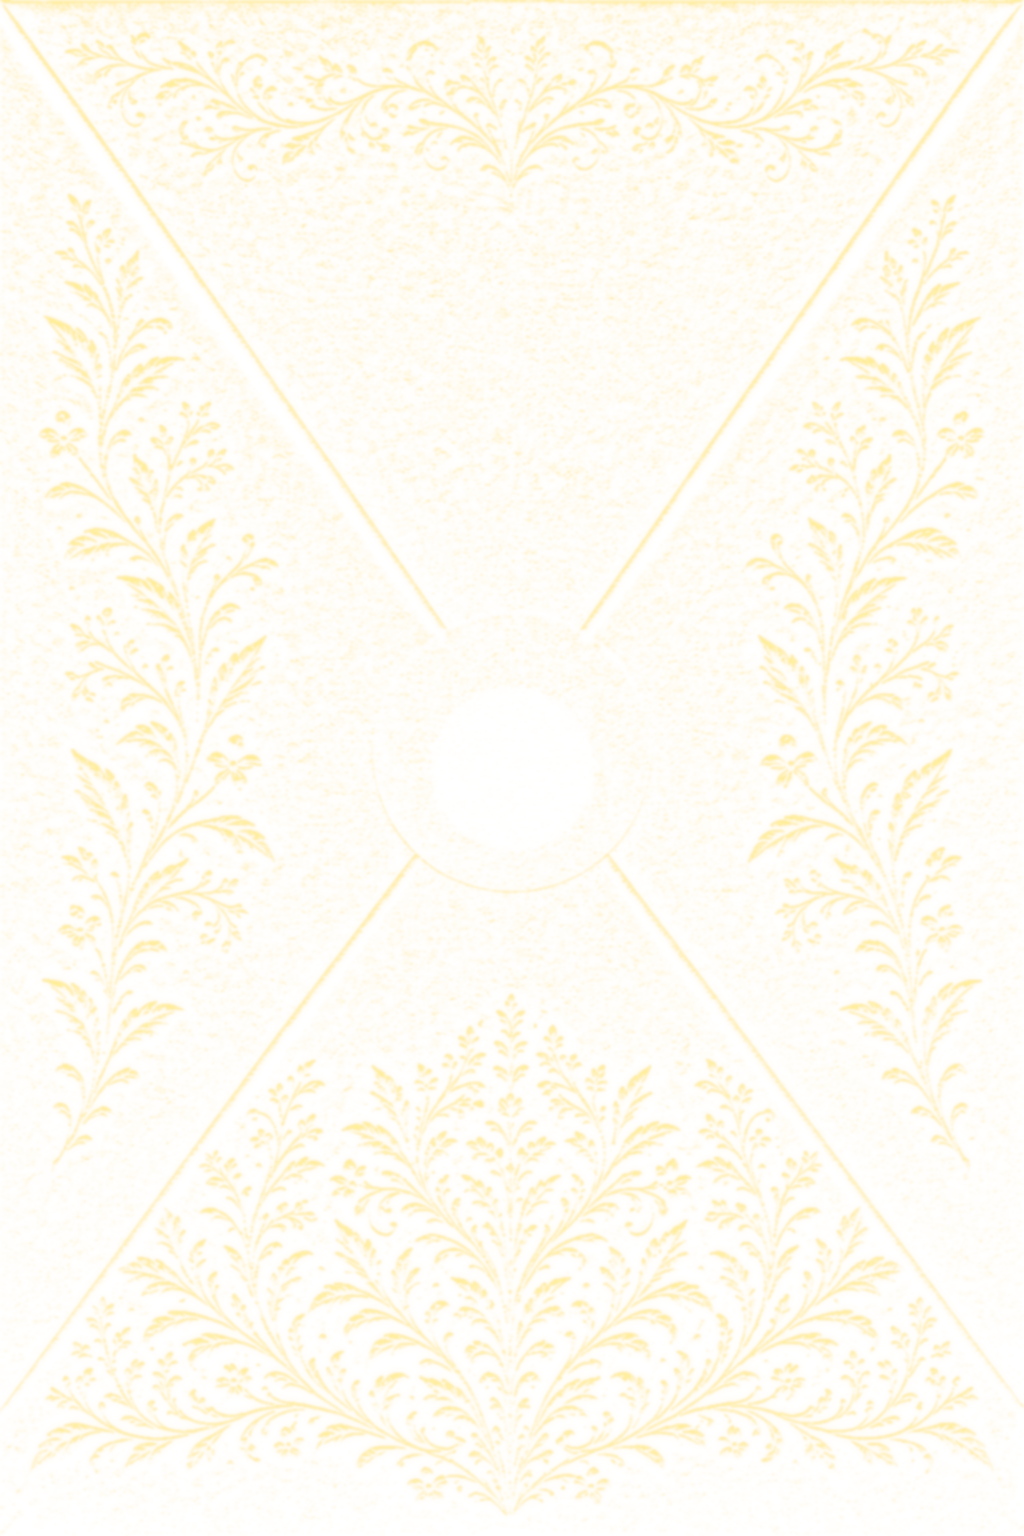
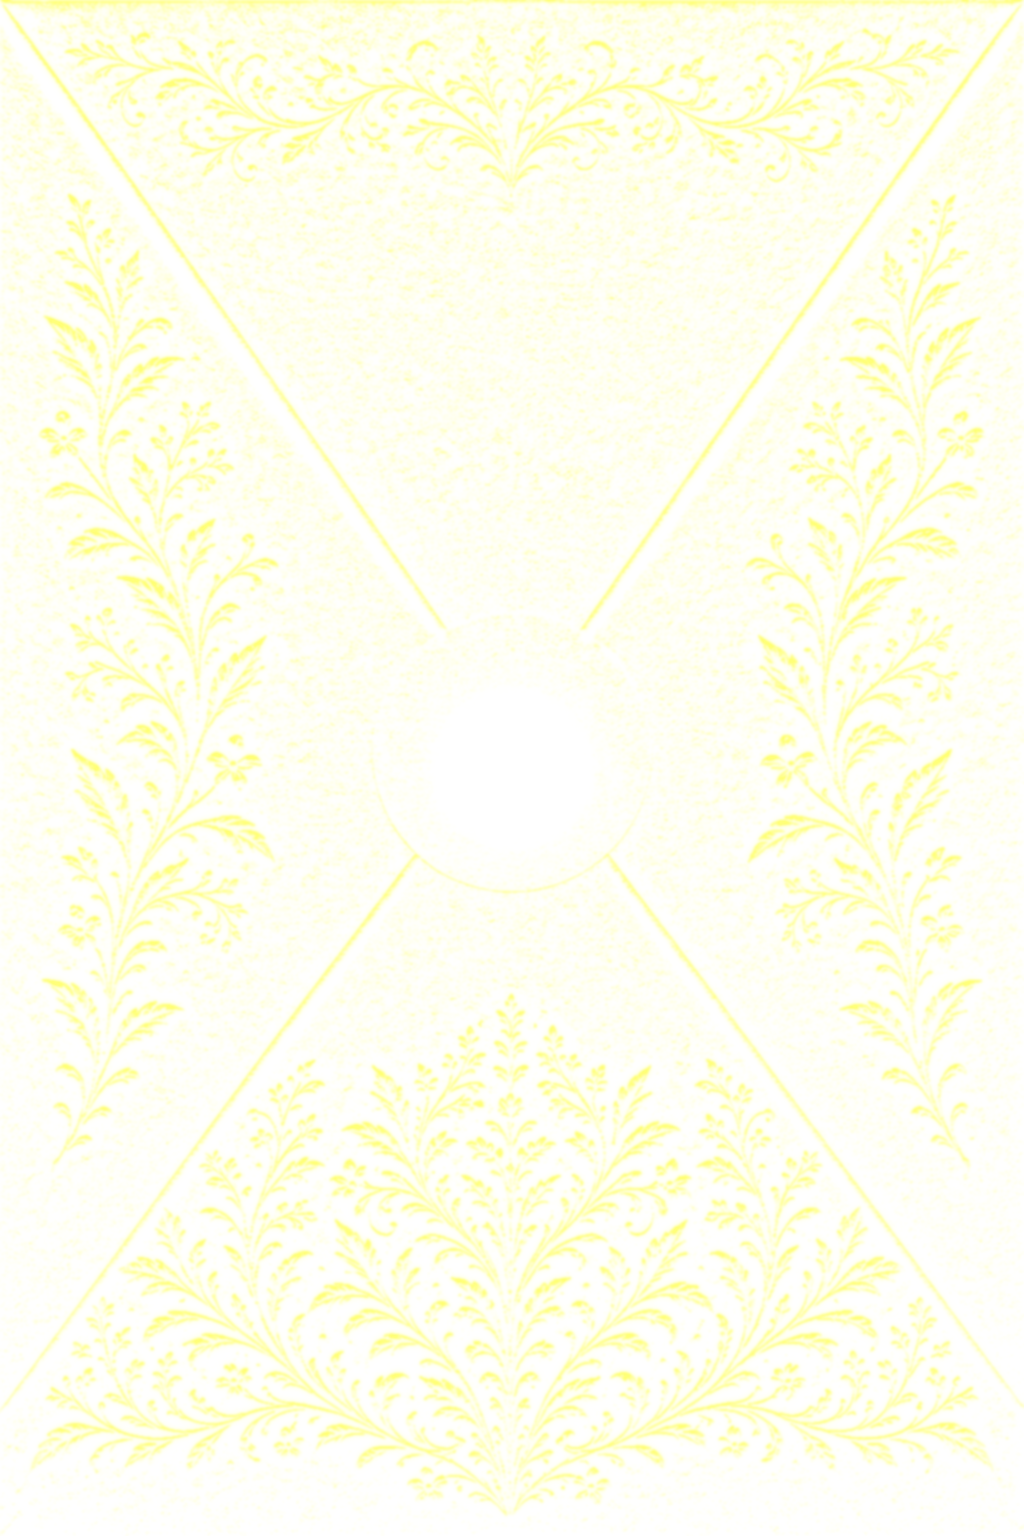
Refine intro glow: brighter florals and monogram only
Remove envelope paper brightening, seal halo, and particle burst on
click. Strengthen the floral gold overlay (center punched out) and add
a monogram-only light so the wax body stays calm while BL shines.

diff --git a/app/globals.css b/app/globals.css
@@ -370,8 +370,8 @@
   }
 
   .intro-envelope-stage.is-illuminated .envelope-master-face {
-    filter: brightness(1.06) saturate(1.08);
-    transition: filter var(--intro-glow, 1400ms) ease;
+    /* Keep paper calm — only florals light up via glow overlay */
+    filter: none;
   }
 
   /* Gold floral rim-light — fades in when seal is activated */
@@ -380,15 +380,15 @@
     mix-blend-mode: screen;
     pointer-events: none;
     z-index: 2;
-    transition: opacity var(--intro-glow, 1400ms) cubic-bezier(0.22, 1, 0.36, 1);
+    transition: opacity var(--intro-glow, 1200ms) cubic-bezier(0.22, 1, 0.36, 1);
   }
 
   .envelope-floral-glow.is-lit {
-    opacity: 0.92;
+    opacity: 1;
     filter:
-      brightness(1.08)
-      drop-shadow(0 0 10px rgb(212 168 79 / 0.35))
-      drop-shadow(0 0 22px rgb(212 168 79 / 0.2));
+      brightness(1.2)
+      contrast(1.05)
+      drop-shadow(0 0 6px rgb(212 168 79 / 0.28));
   }
 
   .envelope-floral-glow-face {
@@ -398,24 +398,23 @@
     opacity: 0;
     mix-blend-mode: screen;
     z-index: 2;
-    transition: opacity var(--intro-glow, 1400ms) cubic-bezier(0.22, 1, 0.36, 1);
+    transition: opacity var(--intro-glow, 1200ms) cubic-bezier(0.22, 1, 0.36, 1);
   }
 
   .envelope-floral-glow-face.is-lit {
-    opacity: 0.88;
-    filter:
-      brightness(1.05)
-      drop-shadow(0 0 8px rgb(212 168 79 / 0.28));
+    opacity: 0.95;
+    filter: brightness(1.15);
   }
 
-  .intro-envelope-stage.is-floral-glow .envelope-closed-master img:first-child {
-    filter: brightness(1.03) saturate(1.04);
-    transition: filter var(--intro-glow, 1400ms) ease;
+  /* Do not brighten the whole envelope paper on click */
+  .intro-envelope-stage.is-floral-glow .envelope-closed-master > img:first-child {
+    filter: none;
   }
 
   @media (prefers-reduced-motion: reduce) {
     .envelope-floral-glow,
-    .envelope-floral-glow-face {
+    .envelope-floral-glow-face,
+    .intro-monogram-glow {
       transition: opacity 0.25s ease;
     }
   }
@@ -510,65 +509,25 @@
     text-wrap: balance;
   }
 
-  /* Wax seal */
-  .intro-seal-glow {
-    width: min(58vw, 15rem);
-    height: min(58vw, 15rem);
-    border-radius: 50%;
-    background: radial-gradient(
-      circle,
-      rgb(212 168 79 / 0) 0%,
-      rgb(212 168 79 / 0) 100%
-    );
+  /* Wax seal stays calm; only monogram lights */
+  .intro-monogram-glow {
+    width: min(28vw, 7rem);
+    height: min(28vw, 7rem);
     opacity: 0;
-    transition:
-      opacity 0.4s ease,
-      transform 0.6s ease;
+    mix-blend-mode: screen;
+    z-index: 1;
+    transition: opacity var(--intro-glow, 1200ms) cubic-bezier(0.22, 1, 0.36, 1);
+    filter: drop-shadow(0 0 4px rgb(232 190 90 / 0.35));
   }
 
-  .intro-seal-glow.is-activating {
-    opacity: 0.4;
-    transform: scale(1.05);
-    background: radial-gradient(
-      circle,
-      rgb(212 168 79 / 0.28) 0%,
-      rgb(212 168 79 / 0.1) 45%,
-      transparent 70%
-    );
+  .intro-monogram-glow.is-lit {
+    opacity: 0.95;
   }
 
-  .intro-seal-glow.is-active {
-    opacity: 1;
-    animation: intro-seal-pulse 1.4s ease-out forwards;
-  }
-
-  @keyframes intro-seal-pulse {
-    0% {
-      transform: scale(0.85);
-      background: radial-gradient(
-        circle,
-        rgb(212 168 79 / 0.6) 0%,
-        rgb(212 168 79 / 0.22) 40%,
-        transparent 68%
-      );
-    }
-    45% {
-      transform: scale(1.18);
-      background: radial-gradient(
-        circle,
-        rgb(232 190 90 / 0.7) 0%,
-        rgb(212 168 79 / 0.3) 42%,
-        transparent 72%
-      );
-    }
-    100% {
-      transform: scale(1.4);
-      background: radial-gradient(
-        circle,
-        rgb(212 168 79 / 0.38) 0%,
-        rgb(212 168 79 / 0.14) 50%,
-        transparent 75%
-      );
+  @media (min-width: 640px) {
+    .intro-monogram-glow {
+      width: 7.25rem;
+      height: 7.25rem;
     }
   }
 
@@ -602,7 +561,7 @@
       sepia(0.28)
       saturate(1.35)
       hue-rotate(4deg)
-      brightness(1.1)
+      brightness(1.05)
       contrast(1.05);
   }
 
@@ -615,20 +574,6 @@
 
   .intro-seal-button.is-pressing {
     transform: scale(0.96);
-  }
-
-  .intro-seal-button.is-glowing {
-    transform: scale(1.04);
-  }
-
-  .intro-seal-button.is-glowing .intro-seal-image {
-    filter:
-      sepia(0.35)
-      saturate(1.55)
-      hue-rotate(6deg)
-      brightness(1.22)
-      contrast(1.08)
-      drop-shadow(0 0 14px rgb(212 168 79 / 0.5));
   }
 
   .intro-seal-button.is-lifting {
@@ -649,37 +594,6 @@
   .intro-seal-hint-flourish {
     margin: 0 0.5em;
     opacity: 0.75;
-  }
-
-  .intro-seal-particle {
-    position: absolute;
-    left: 50%;
-    top: 50%;
-    width: var(--ps, 2px);
-    height: var(--ps, 2px);
-    margin: calc(var(--ps, 2px) / -2);
-    border-radius: 50%;
-    background: rgb(232 190 90 / 0.9);
-    opacity: 0;
-    transform: translate(0, 0);
-  }
-
-  .intro-seal-particle.is-active {
-    animation: intro-particle-burst 1.1s ease-out var(--pd, 0s) forwards;
-  }
-
-  @keyframes intro-particle-burst {
-    0% {
-      opacity: 0;
-      transform: translate(0, 0) scale(0.5);
-    }
-    20% {
-      opacity: 0.95;
-    }
-    100% {
-      opacity: 0;
-      transform: translate(var(--px), var(--py)) scale(0.2);
-    }
   }
 
   .intro-invitation-card {
@@ -750,8 +664,7 @@
   }
 
   @media (prefers-reduced-motion: reduce) {
-    .intro-seal-glow.is-active,
-    .intro-seal-particle.is-active,
+    .intro-monogram-glow,
     .intro-invitation-card.is-rising {
       animation: none;
     }

diff --git a/components/entry/intro/WaxSealButton.tsx b/components/entry/intro/WaxSealButton.tsx
@@ -2,7 +2,6 @@
 
 import { wedding } from "@/data/wedding";
 import { cn } from "@/lib/cn";
-import { GoldParticles } from "./GoldParticles";
 import type { IntroPhase } from "./types";
 
 interface WaxSealButtonProps {
@@ -25,6 +24,7 @@ export function WaxSealButton({
   const glowing = phase === "glowing";
   const opening = phase === "opening";
   const interactive = phase === "closed";
+  const monogramLit = activating || glowing;
 
   const hint =
     glowing || activating
@@ -35,23 +35,21 @@ export function WaxSealButton({
     <>
       <div
         className={cn(
-          "intro-seal-glow pointer-events-none absolute left-1/2 top-1/2 z-[25] -translate-x-1/2 -translate-y-1/2",
-          (glowing || opening) && "is-active",
-          activating && "is-activating",
-        )}
-        aria-hidden
-      />
-
-      <div
-        className={cn(
           "intro-seal-wrap absolute left-1/2 top-1/2 z-30 -translate-x-1/2 -translate-y-1/2",
           "transition-opacity duration-500",
           !visible && "opacity-0",
         )}
       >
-        <GoldParticles
-          active={glowing || opening}
-          reduceMotion={reduceMotion}
+        {/* Monogram-only light — wax body stays calm */}
+        {/* eslint-disable-next-line @next/next/no-img-element */}
+        <img
+          src="/images/seal-monogram-glow.webp"
+          alt=""
+          className={cn(
+            "intro-monogram-glow pointer-events-none absolute left-1/2 top-1/2 -translate-x-1/2 -translate-y-1/2",
+            monogramLit && "is-lit",
+          )}
+          draggable={false}
         />
 
         <button
@@ -72,7 +70,6 @@ export function WaxSealButton({
               !reduceMotion &&
               "hover:scale-[1.03] active:scale-[0.97]",
             activating && !reduceMotion && "is-pressing",
-            glowing && !reduceMotion && "is-glowing",
             opening && !reduceMotion && "is-lifting",
             opening && reduceMotion && "opacity-0",
             hotspotOnly && "intro-seal-hotspot",
@@ -97,7 +94,6 @@ export function WaxSealButton({
         </button>
       </div>
 
-      {/* Hint is baked into closed master; show live hint only while activating/glowing */}
       <p
         className={cn(
           "intro-seal-hint pointer-events-none absolute left-1/2 z-20 -translate-x-1/2",
